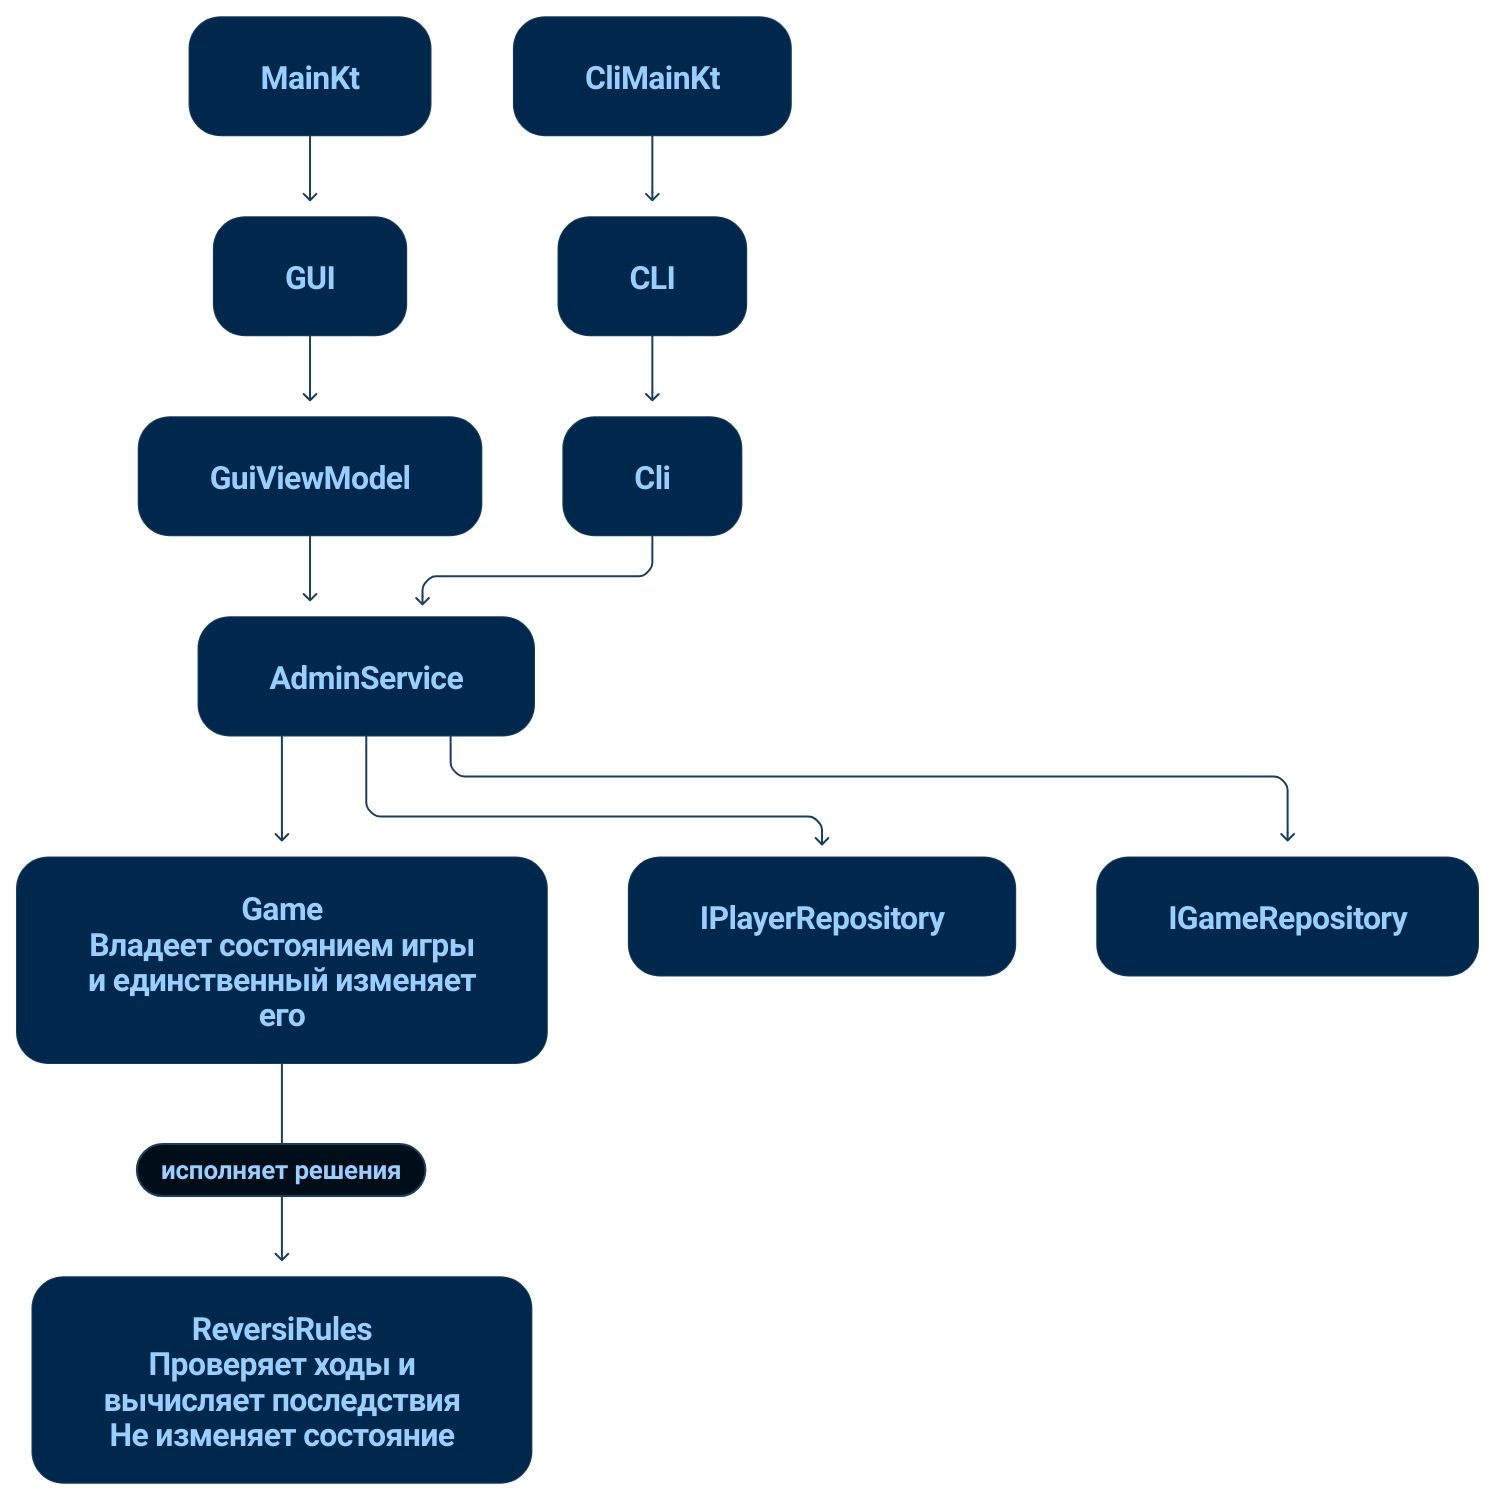
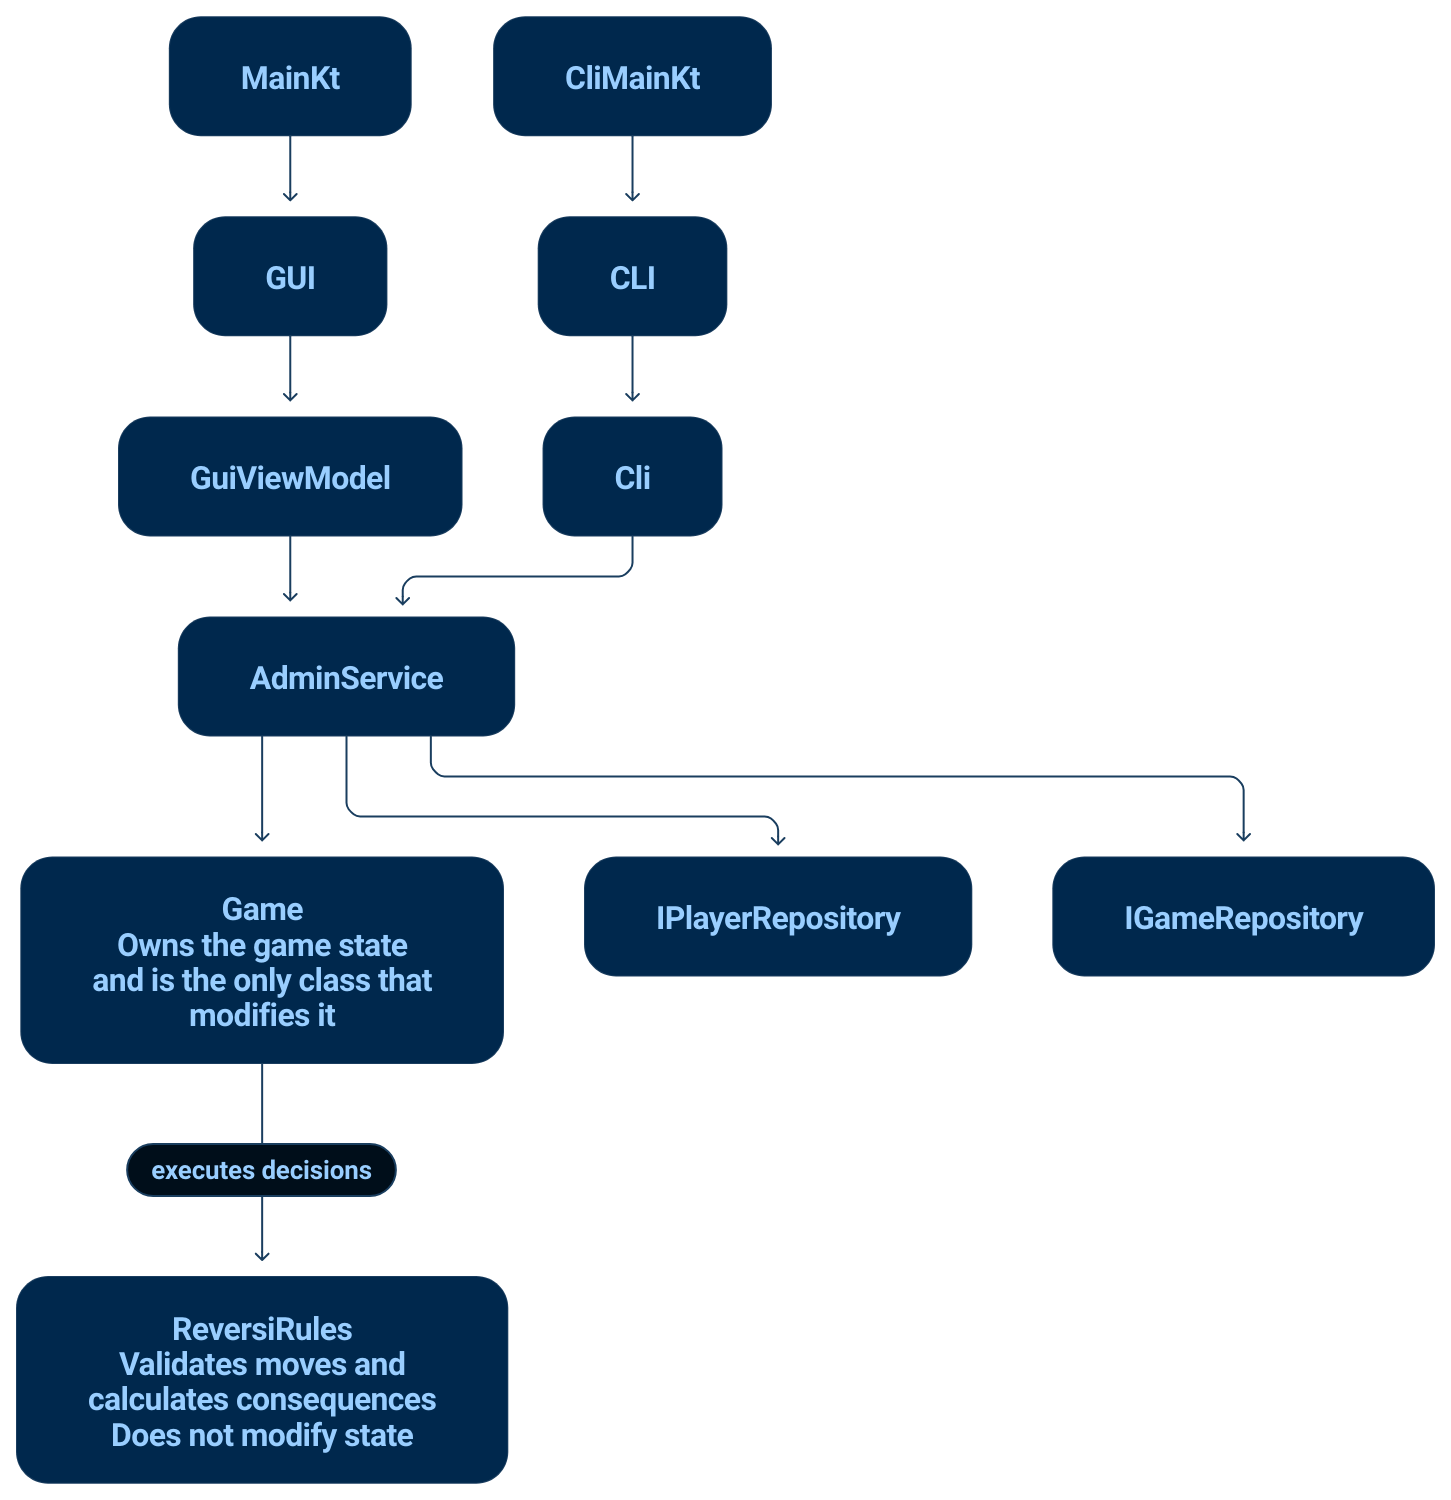
Update docs

diff --git a/README.md b/README.md
@@ -1,5 +1,13 @@
 # reversi-admin-panel
-CLI and GUI reversi games validator. Written in Kotlin.
+CLI and GUI application for managing Reversi games. Written in Kotlin.
+
+## Features
+
+- Player management.
+- Reversi game management.
+- Game history and player statistics.
+- Persistent storage in SQLite.
+- CLI and GUI access to the same data.
 
 ## Usage
 
@@ -33,6 +41,22 @@ cd reversi-admin-panel
 ```bash
 ./gradlew test
 ```
+
+The test suite contains unit, integration, regression and system tests.
+
+### Database
+
+The application uses SQLite for persistent storage.
+
+The database is created automatically on startup and is stored locally in:
+
+```text
+data/reversi.db
+```
+
+The database stores players, games and game move history.
+
+The CLI and GUI use the same database.
 
 ## Architecture
 

diff --git a/docs/ARCHITECTURE.md b/docs/ARCHITECTURE.md
@@ -12,8 +12,8 @@ flowchart TD
 
     Service["AdminService"]
 
-    Game["Game<br/>Владеет состоянием игры<br/>и единственный изменяет его"]
-    Rules["ReversiRules<br/>Проверяет ходы и вычисляет последствия<br/>Не изменяет состояние"]
+    Game["Game<br/>Owns the game state<br/>and is the only class that modifies it"]
+    Rules["ReversiRules<br/>Validates moves and calculates consequences<br/>Does not modify state"]
 
     PlayerRepository["IPlayerRepository"]
     GameRepository["IGameRepository"]
@@ -31,5 +31,5 @@ flowchart TD
     Service --> PlayerRepository
     Service --> GameRepository
 
-    Game -->|исполняет решения| Rules
+    Game -->|executes decisions| Rules
 ```
